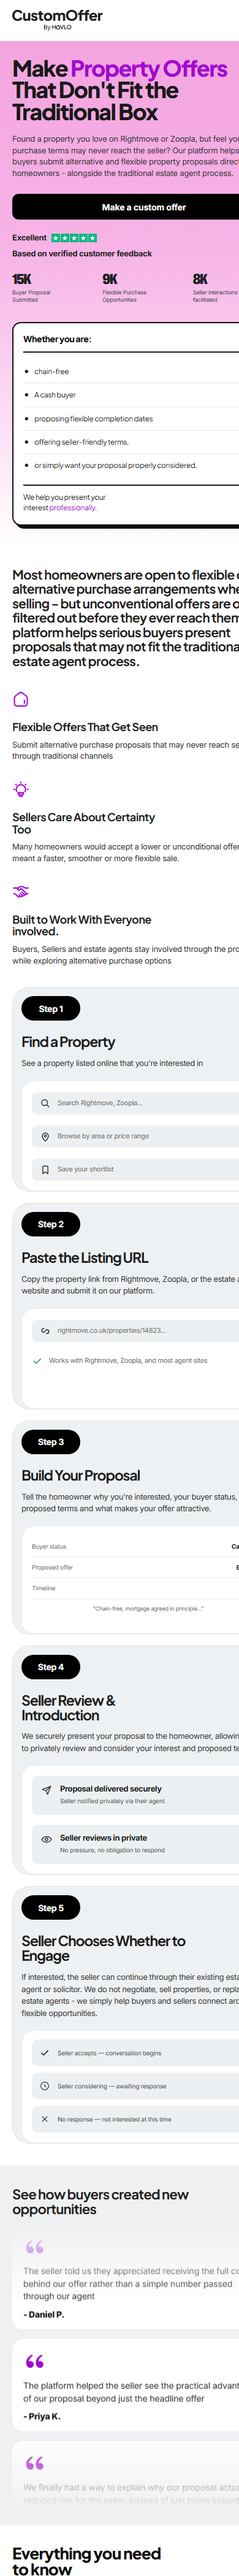
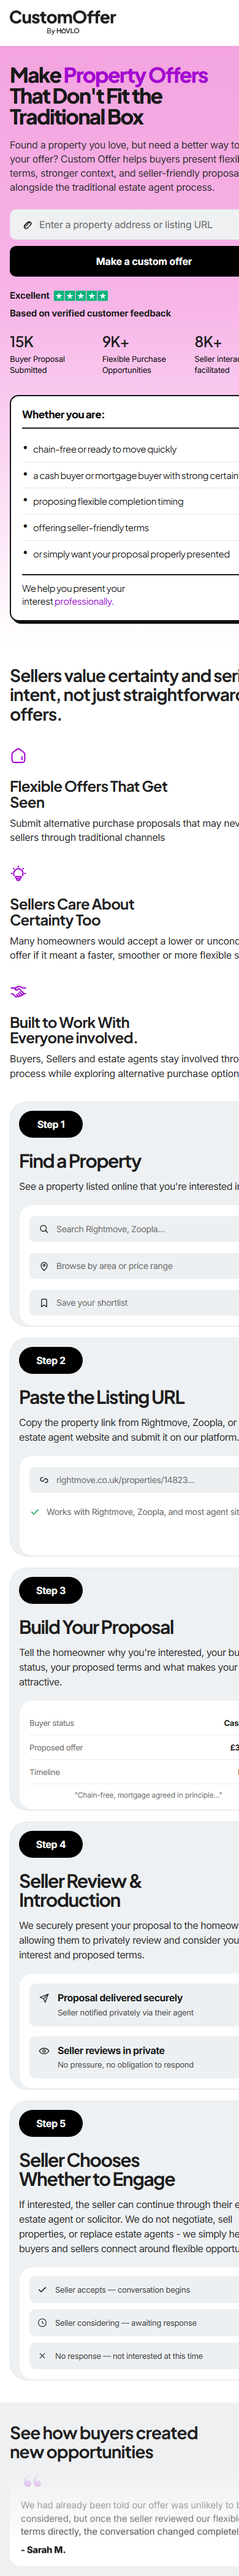
latest updates3

diff --git a/havlo_frontend/src/pages/CustomOffers.tsx b/havlo_frontend/src/pages/CustomOffers.tsx
@@ -929,6 +929,7 @@ export const CustomOffers: React.FC = () => {
         }
 
         .co-hero-wrap {
+          overflow-x: clip;
           background:
             radial-gradient(circle at 78% 14%, rgba(255, 199, 232, 0.75), rgba(255, 176, 230, 0.28) 28%, rgba(255, 255, 255, 0) 58%),
             linear-gradient(90deg, #ffffff 0%, #ffffff 44%, #ffb0e6 100%);
@@ -940,10 +941,12 @@ export const CustomOffers: React.FC = () => {
           gap: 36px;
           padding-top: 88px;
           padding-bottom: 82px;
+          min-width: 0;
         }
 
         .co-hero-copy {
           max-width: 688px;
+          min-width: 0;
         }
 
         .co-hero-title {
@@ -967,7 +970,7 @@ export const CustomOffers: React.FC = () => {
           color: #191919;
         }
         .co-hero-title-mobile .co-title-line--keep {
-          white-space: nowrap;
+          white-space: normal;
         }
 
         .co-hero-title .co-title-accent {
@@ -1099,6 +1102,7 @@ export const CustomOffers: React.FC = () => {
           grid-template-columns: repeat(3, minmax(0, 1fr));
           gap: 22px;
           max-width: 660px;
+          min-width: 0;
         }
 
         .co-stat-value {
@@ -1127,6 +1131,8 @@ export const CustomOffers: React.FC = () => {
 
         .co-hero-card {
           align-self: start;
+          min-width: 0;
+          max-width: 100%;
           margin-top: 38px;
           background: #ffffff;
           border: 3px solid #111111;
@@ -1968,7 +1974,7 @@ export const CustomOffers: React.FC = () => {
 
         @media (max-width: 920px) {
           .co-inner {
-            padding: 0 20px;
+            padding: 0 16px;
           }
 
           .co-nav {
@@ -2015,8 +2021,10 @@ export const CustomOffers: React.FC = () => {
           }
 
           .co-hero-title {
-            font-size: 44px;
-            line-height: 0.98;
+            max-width: 100%;
+            font-size: clamp(24px, 6.9vw, 32px);
+            line-height: 1.02;
+            letter-spacing: -0.05em;
           }
 
           .co-hero-title-desktop {
@@ -2027,8 +2035,9 @@ export const CustomOffers: React.FC = () => {
             display: block;
           }
           .co-hero-title-mobile .co-title-line--keep {
-            display: inline-flex;
-            gap: 0.18em;
+            display: block;
+            max-width: 100%;
+            white-space: normal;
           }
 
           .co-hero-copy p {
@@ -2116,7 +2125,7 @@ export const CustomOffers: React.FC = () => {
             padding: 20px 18px 20px;
             border-radius: 14px;
             border-width: 2px;
-            box-shadow: 5px 5px 0 #111111;
+            box-shadow: 4px 4px 0 #111111;
           }
 
           .co-hero-card h2 {
@@ -2964,6 +2973,7 @@ export const CustomOffers: React.FC = () => {
             font-size: 11px;
           }
         }
+
       `}</style>
 
       <header className="co-header">
